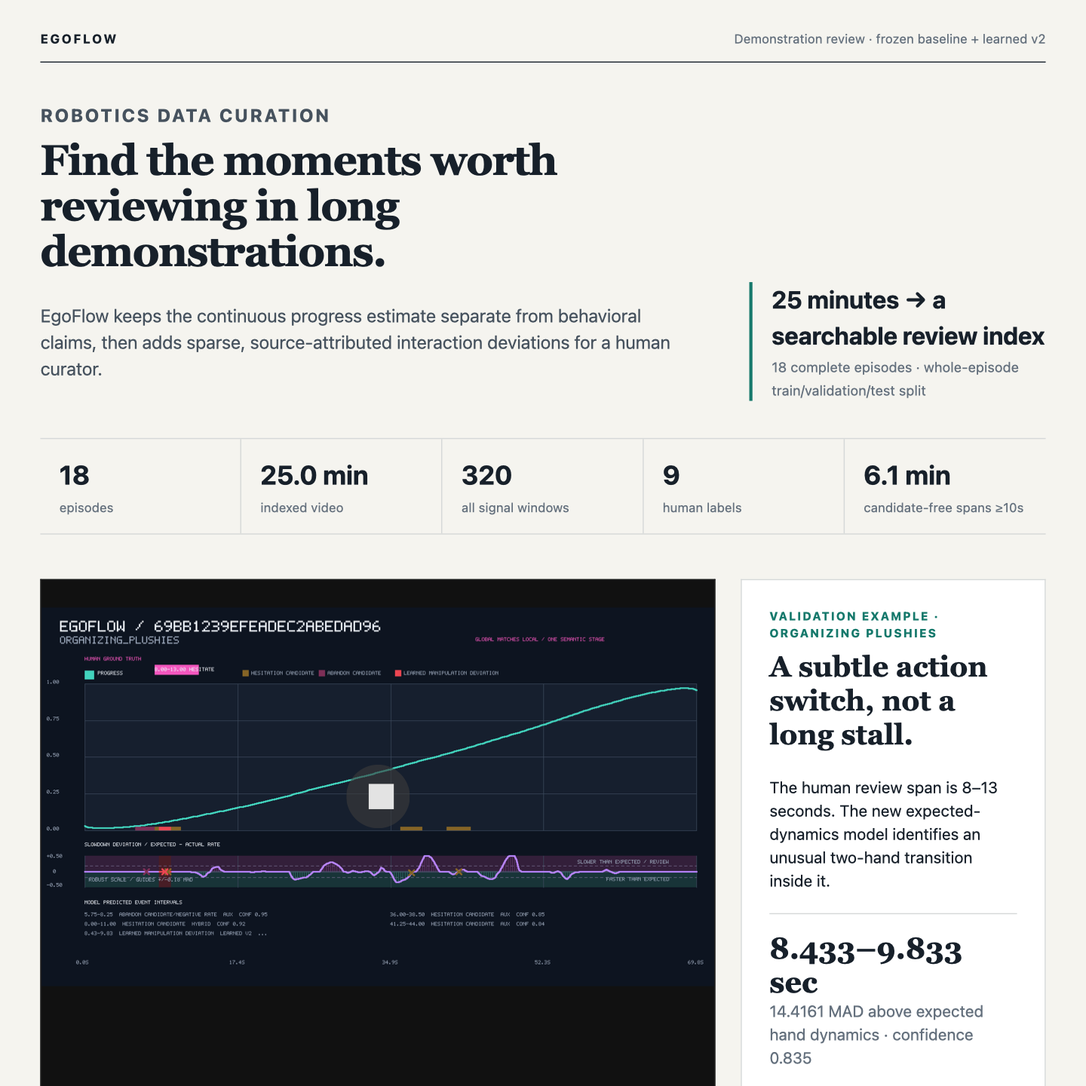
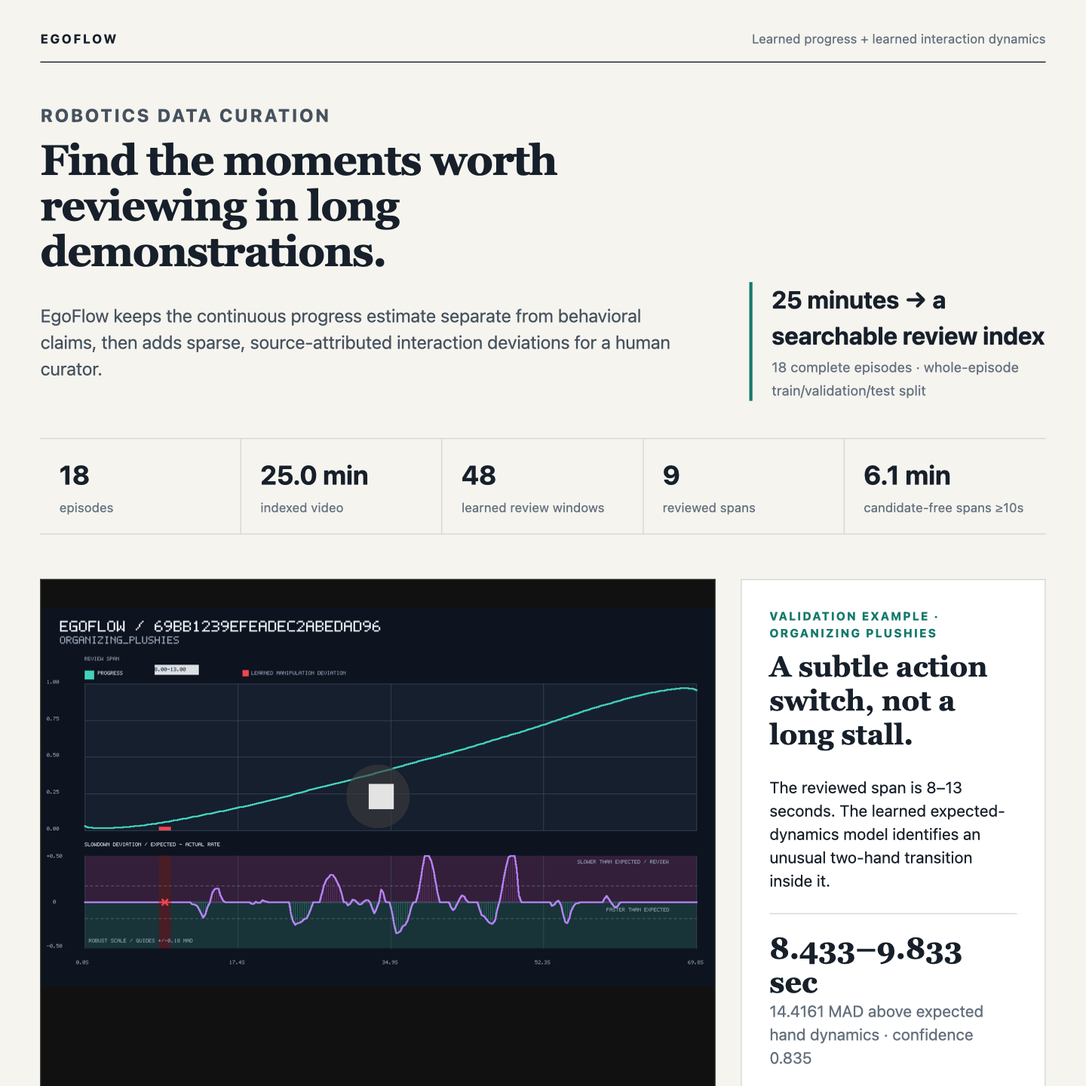
Simplify learned-signal demo and add review reel

diff --git a/hackathon/egoflow/dashboard.py b/hackathon/egoflow/dashboard.py
@@ -83,12 +83,17 @@ def render_dashboard(
         return Path(os.path.relpath(absolute.resolve(), output.parent.resolve())).as_posix()
 
     total_seconds = sum(row[2] for row in episodes)
-    event_total = sum(len(rows) for rows in events_by_episode.values())
+    event_total = sum(
+        1 for rows in events_by_episode.values() for row in rows if row[3] == "LEARNED V2"
+    )
     clean_total = sum(span[2] for rows in clean_by_episode.values() for span in rows)
     manual_total = sum(len(rows) for rows in manual_by_episode.values())
     cards: list[str] = []
     for episode_id, task, duration, completion, video_path in episodes:
-        events = events_by_episode[episode_id]
+        # The presentation surface stays intentionally narrow: learned hand-
+        # dynamics candidates only. Legacy derived/auxiliary layers remain in
+        # SQLite and result JSON for auditability, not in the live demo.
+        events = [event for event in events_by_episode[episode_id] if event[3] == "LEARNED V2"]
         manual = manual_by_episode[episode_id]
         clean = clean_by_episode[episode_id]
         local_video_href = relative_asset(video_path)
@@ -99,7 +104,8 @@ def render_dashboard(
             f'style="left:{100*start/max(duration,1e-6):.2f}%;width:{max(.45,100*(end-start)/max(duration,1e-6)):.2f}%" '
             f'title="{html.escape(label.replace("_", " "))} · {html.escape(source)} · {start:.2f}–{end:.2f}s" '
             f'tabindex="0" role="button" data-action="watch" data-video="{escaped_video}" data-start="{start:.3f}" '
-            f'data-end="{end:.3f}" data-title="{html.escape(label.replace("_", " ").title(), quote=True)} · {html.escape(episode_id, quote=True)}"></span>'
+            f'data-end="{end:.3f}" data-episode="{html.escape(episode_id, quote=True)}" data-confidence="{confidence:.4f}" '
+            f'data-title="{html.escape(label.replace("_", " ").title(), quote=True)} · {html.escape(episode_id, quote=True)}"></span>'
             for start, end, label, source, confidence, reason in events
         )
         manual_marks = "".join(
@@ -168,7 +174,7 @@ def render_dashboard(
 main {{ max-width:1240px; margin:auto; padding:28px 38px 80px }} h1,h2,h3,p {{ margin-top:0 }} h1 {{ font:600 40px/1.08 Georgia,serif; letter-spacing:-.025em; max-width:720px }} h2 {{ font:600 27px/1.2 Georgia,serif }} h3 {{ font-size:17px }} a {{ color:var(--blue); text-underline-offset:3px }} code {{ font:11px ui-monospace,SFMono-Regular,monospace; color:var(--muted) }}
 .topline {{ display:flex; justify-content:space-between; align-items:center; border-bottom:1px solid var(--ink); padding-bottom:12px; margin-bottom:38px }} .brand {{ font-weight:750; letter-spacing:.14em; font-size:12px }} .version {{ color:var(--muted); font-size:12px }} .intro {{ display:grid; grid-template-columns:1.5fr .7fr; gap:70px; margin-bottom:35px }} .intro p {{ color:#46525e; font-size:17px; max-width:700px }} .claim {{ border-left:3px solid var(--teal); padding-left:18px; align-self:end }} .claim b {{ display:block; font-size:23px }} .claim span {{ color:var(--muted); font-size:13px }}
 .stats {{ display:grid; grid-template-columns:repeat(5,1fr); border-block:1px solid var(--rule); margin-bottom:42px }} .stat {{ padding:15px 18px; border-right:1px solid var(--rule) }} .stat:last-child {{ border:0 }} .stat b {{ display:block; font-size:25px }} .stat span {{ color:var(--muted); font-size:12px }}
-.hero {{ display:grid; grid-template-columns:1.55fr .7fr; gap:24px; margin-bottom:54px }} .hero-media {{ background:#111; border:1px solid #222 }} .hero-media video,.hero-media img {{ display:block; width:100%; aspect-ratio:16/10.3; object-fit:contain }} .media-placeholder {{ min-height:460px; display:grid; place-items:center; color:#aaa }} .hero-copy {{ background:var(--white); border:1px solid var(--rule); padding:26px }} .overline {{ margin:0 0 8px; color:var(--teal); font-size:11px; font-weight:750; letter-spacing:.12em; text-transform:uppercase }} .result {{ border-block:1px solid var(--rule); padding:16px 0; margin:20px 0 }} .result b {{ display:block; font:600 28px Georgia,serif }} .result span {{ color:var(--muted) }} .legend {{ display:grid; grid-template-columns:1fr 1fr; gap:9px 14px; margin-top:22px; font-size:12px }} .key::before {{ content:""; display:inline-block; width:9px; height:9px; margin-right:7px; background:var(--gray) }} .key.learned-v2::before {{ background:var(--alert) }} .key.hybrid::before {{ background:var(--orange) }} .key.aux::before {{ background:var(--rose) }} .key.hand::before {{ background:var(--violet) }} .key.human::before {{ background:#d8247c }}
+.hero {{ display:grid; grid-template-columns:1.55fr .7fr; gap:24px; margin-bottom:54px }} .hero-media {{ background:#111; border:1px solid #222 }} .hero-media video,.hero-media img {{ display:block; width:100%; aspect-ratio:16/10.3; object-fit:contain }} .media-placeholder {{ min-height:460px; display:grid; place-items:center; color:#aaa }} .hero-copy {{ background:var(--white); border:1px solid var(--rule); padding:26px }} .overline {{ margin:0 0 8px; color:var(--teal); font-size:11px; font-weight:750; letter-spacing:.12em; text-transform:uppercase }} .result {{ border-block:1px solid var(--rule); padding:16px 0; margin:20px 0 }} .result b {{ display:block; font:600 28px Georgia,serif }} .result span {{ color:var(--muted) }} .legend {{ display:grid; grid-template-columns:1fr 1fr; gap:9px 14px; margin-top:22px; font-size:12px }} .key::before {{ content:""; display:inline-block; width:9px; height:9px; margin-right:7px; background:var(--gray) }} .key.learned-v2::before {{ background:var(--alert) }} .key.learned::before {{ background:var(--teal) }} .key.human::before {{ background:#aeb5b8 }}
 .method {{ margin:0 0 55px }} .section-intro {{ max-width:720px; color:var(--muted) }} .flow {{ display:grid; grid-template-columns:1fr 30px 1.35fr 30px 1.1fr 30px 1fr; align-items:stretch; margin-top:24px }} .flow-node {{ background:var(--white); border:1px solid var(--rule); padding:19px; min-height:128px }} .flow-node b {{ display:block; margin-bottom:8px }} .flow-node span {{ color:var(--muted); font-size:13px }} .flow-arrow {{ display:grid; place-items:center; color:var(--muted); font-size:23px }} .branch {{ display:grid; grid-template-columns:1fr 1fr; gap:8px }} .branch div {{ border-left:2px solid var(--blue); padding-left:10px }} .branch div:last-child {{ border-color:var(--teal) }}
 .reading {{ display:grid; grid-template-columns:1fr 1fr; gap:22px; margin:0 0 56px }} .reading-panel {{ background:var(--white); border:1px solid var(--rule); padding:22px }} .mini-chart {{ width:100%; height:120px }} .mini-chart .base {{ stroke:#b7bcbc; stroke-width:1 }} .mini-chart .curve {{ stroke:var(--teal); fill:none; stroke-width:3 }} .mini-chart .spike {{ stroke:var(--alert); stroke-width:4 }} .mini-label {{ display:flex; justify-content:space-between; color:var(--muted); font-size:12px }}
 .catalog-head {{ display:flex; justify-content:space-between; align-items:end; gap:20px; border-bottom:1px solid var(--ink); padding-bottom:14px }} .controls {{ display:flex; gap:10px; align-items:center; flex-wrap:wrap }} input,select,button {{ font:inherit }} input,select {{ height:38px; border:1px solid #aeb5b8; background:var(--white); border-radius:2px; color:var(--ink); padding:0 10px }} input {{ width:240px }} label {{ color:var(--muted); font-size:12px }} button {{ border:1px solid #aeb5b8; background:var(--white); color:var(--ink); padding:8px 11px; cursor:pointer }} button:hover {{ border-color:var(--ink) }} button:focus-visible,[role=button]:focus-visible {{ outline:3px solid #91b8dc; outline-offset:2px }} .demo-toggle.active {{ background:var(--ink); border-color:var(--ink); color:white }} .clear-shortlist {{ color:var(--muted) }} .layer-note {{ min-height:24px; margin:10px 0 10px; color:var(--muted); font-size:12px }}
@@ -181,26 +187,29 @@ main {{ max-width:1240px; margin:auto; padding:28px 38px 80px }} h1,h2,h3,p {{ m
 .event-mark.learned-v2 {{ background:var(--alert)!important }}
 @media(max-width:900px) {{ main {{ padding:20px }} .intro,.hero,.reading,.notes {{ grid-template-columns:1fr }} .stats {{ grid-template-columns:1fr 1fr }} .stat {{ border-bottom:1px solid var(--rule) }} .flow {{ grid-template-columns:1fr }} .flow-arrow {{ transform:rotate(90deg); min-height:28px }} .episodes {{ grid-template-columns:1fr }} .catalog-head {{ align-items:start; flex-direction:column }} .controls {{ flex-wrap:wrap }} .episode-actions {{ flex-direction:column-reverse; align-items:flex-end }} }}
 </style></head><body><main>
-<div class="topline"><span class="brand">EGOFLOW</span><span class="version">Demonstration review · frozen baseline + learned v2</span></div>
+<div class="topline"><span class="brand">EGOFLOW</span><span class="version">Learned progress + learned interaction dynamics</span></div>
 <section class="intro"><div><p class="overline">Robotics data curation</p><h1>Find the moments worth reviewing in long demonstrations.</h1><p>EgoFlow keeps the continuous progress estimate separate from behavioral claims, then adds sparse, source-attributed interaction deviations for a human curator.</p></div><div class="claim"><b>25 minutes → a searchable review index</b><span>18 complete episodes · whole-episode train/validation/test split</span></div></section>
-<section class="stats"><div class="stat"><b>{len(episodes)}</b><span>episodes</span></div><div class="stat"><b>{total_seconds/60:.1f} min</b><span>indexed video</span></div><div class="stat"><b>{event_total}</b><span>all signal windows</span></div><div class="stat"><b>{manual_total}</b><span>human labels</span></div><div class="stat"><b>{clean_total/60:.1f} min</b><span>candidate-free spans ≥10s</span></div></section>
-<section class="hero"><div class="hero-media">{hero_media}</div><aside class="hero-copy"><p class="overline">Validation example · organizing plushies</p><h2>A subtle action switch, not a long stall.</h2><p>The human review span is 8–13 seconds. The new expected-dynamics model identifies an unusual two-hand transition inside it.</p><div class="result"><b>{learned_event.get('start_sec','—')}–{learned_event.get('end_sec','—')} sec</b><span>{learned_event.get('surprise_mad','—')} MAD above expected hand dynamics · confidence {learned_event.get('confidence','—')}</span></div><p>The earlier geometric baseline lands at {hand_event.get('start_sec','—')}–{hand_event.get('end_sec','—')} seconds. Neither signal claims to read intent or identify the target object.</p><div class="legend"><span class="key learned-v2">Learned v2</span><span class="key hybrid">Hybrid progress + visual</span><span class="key aux">Auxiliary visual</span><span class="key hand">Hand geometry</span><span class="key human">Human label</span></div></aside></section>
+<section class="stats"><div class="stat"><b>{len(episodes)}</b><span>episodes</span></div><div class="stat"><b>{total_seconds/60:.1f} min</b><span>indexed video</span></div><div class="stat"><b>{event_total}</b><span>learned review windows</span></div><div class="stat"><b>{manual_total}</b><span>reviewed spans</span></div><div class="stat"><b>{clean_total/60:.1f} min</b><span>candidate-free spans ≥10s</span></div></section>
+<section class="hero"><div class="hero-media">{hero_media}</div><aside class="hero-copy"><p class="overline">Validation example · organizing plushies</p><h2>A subtle action switch, not a long stall.</h2><p>The reviewed span is 8–13 seconds. The learned expected-dynamics model identifies an unusual two-hand transition inside it.</p><div class="result"><b>{learned_event.get('start_sec','—')}–{learned_event.get('end_sec','—')} sec</b><span>{learned_event.get('surprise_mad','—')} MAD above expected hand dynamics · confidence {learned_event.get('confidence','—')}</span></div><p>The signal measures an unexpected interaction transition; the final semantic judgment stays with the reviewer.</p><div class="legend"><span class="key learned-v2">Learned interaction</span><span class="key learned">Learned progress</span><span class="key human">Reviewed span</span></div></aside></section>
 <section class="method"><p class="overline">System, briefly</p><h2>Two learned signals; one review queue.</h2><p class="section-intro">The coarse model answers “how far through the demonstration are we?” The short-horizon model asks “does this hand transition look unlike the manipulation dynamics learned from training episodes?”</p><div class="flow"><div class="flow-node"><b>1 · Public RGB video</b><span>Frames only. Dense semantic annotations are used when available, but were absent in this public run.</span></div><div class="flow-arrow">→</div><div class="flow-node branch"><div><b>Frozen DINO features</b><span>2-layer BiGRU learns coarse progress.</span></div><div><b>2D hand landmarks</b><span>Small GRU learns expected next-hand state.</span></div></div><div class="flow-arrow">→</div><div class="flow-node"><b>2 · Source-attributed signals</b><span>Progress, centered slowdown deviation, learned interaction surprise, and disclosed auxiliary evidence.</span></div><div class="flow-arrow">→</div><div class="flow-node"><b>3 · Curate</b><span>Review suspicious windows or export candidate-free segments longer than ten seconds.</span></div></div></section>
 <section class="reading"><div class="reading-panel"><p class="overline">Graph 1</p><h3>Learned task progress</h3><svg class="mini-chart" viewBox="0 0 420 120"><line x1="12" y1="104" x2="408" y2="104" class="base"/><path d="M12 102 C80 101 105 89 160 74 S245 48 300 29 S365 15 408 10" class="curve"/></svg><div class="mini-label"><span>start · 0%</span><span>later visual states score higher</span><span>end · 100%</span></div><p class="muted">This is the learned continuous output. It is not a “productive versus stalled” classifier.</p></div><div class="reading-panel"><p class="overline">Graph 2</p><h3>Slowdown deviation</h3><svg class="mini-chart" viewBox="0 0 420 120"><line x1="12" y1="65" x2="408" y2="65" class="base"/><path d="M12 65 L90 63 L120 66 L150 64 L185 26 L205 64 L260 67 L300 44 L320 65 L408 64" class="curve"/><line x1="185" y1="65" x2="185" y2="26" class="spike"/></svg><div class="mini-label"><span>faster than expected ↓</span><span>expected = 0</span><span>slower / review ↑</span></div><p class="muted">The sign is intentionally flipped for presentation: upward means expected rate minus actual rate, so suspicious slowdowns read as peaks.</p></div></section>
-<section><div class="catalog-head"><div><p class="overline">Episode database</p><h2>Inspect the evidence without crowding the graph.</h2></div><div class="controls"><input id="search" data-testid="episode-search" aria-label="Search episodes" placeholder="Search task or episode ID"><label for="layer">Show evidence</label><select id="layer" data-testid="evidence-filter"><option value="core">Core review signals</option><option value="learned-v2">Learned v2 only</option><option value="hybrid">Hybrid only</option><option value="aux">Auxiliary only</option><option value="hand">Hand geometry only</option><option value="human">Human labels only</option><option value="all">All evidence</option></select><button id="shortlist-toggle" class="demo-toggle" data-testid="shortlist-toggle" aria-pressed="false">Demo reel · <span id="shortlist-count">0</span></button><button id="shortlist-clear" class="clear-shortlist">Clear</button></div></div><p class="layer-note" id="layer-note">Core view: learned-v2, hybrid, and human windows. Auxiliary and geometric prototypes are available from the menu.</p><div class="demo-rail" id="demo-rail"><span class="demo-rail-label">Your demo reel</span><span class="demo-empty">Add the strongest episodes; this shortlist stays saved in your browser.</span></div><div class="episodes" id="episodes">{''.join(cards)}</div></section>
+<section><div class="catalog-head"><div><p class="overline">Episode database</p><h2>Inspect the evidence without crowding the graph.</h2></div><div class="controls"><button id="review-next" data-testid="review-next">Review strongest →</button><input id="search" data-testid="episode-search" aria-label="Search episodes" placeholder="Search task or episode ID"><label for="layer">Show evidence</label><select id="layer" data-testid="evidence-filter"><option value="demo">Learned + reviewed</option><option value="learned-v2">Learned only</option><option value="human">Reviewed spans only</option></select><button id="shortlist-toggle" class="demo-toggle" data-testid="shortlist-toggle" aria-pressed="false">Demo reel · <span id="shortlist-count">0</span></button><button id="shortlist-clear" class="clear-shortlist">Clear</button></div></div><p class="layer-note" id="layer-note">Learned interaction candidates and reviewed spans. Click a timeline mark, or use “Review strongest” to step through the highest-confidence candidates.</p><div class="demo-rail" id="demo-rail"><span class="demo-rail-label">Your demo reel</span><span class="demo-empty">Add the strongest episodes; this shortlist stays saved in your browser.</span></div><div class="episodes" id="episodes">{''.join(cards)}</div></section>
 <section class="notes"><div><p class="overline">Claim boundary</p><h2>Deliberately narrow.</h2><p>Learned v2 detects interaction surprise from 2D hand dynamics. It does not identify object A versus B, prove hesitation, or convert every slowdown into a behavioral label. All frozen baseline, derived, auxiliary, experimental, and human sources remain separately queryable.</p></div><div><details><summary>Frozen evaluation record</summary><pre>{metric_summary}</pre></details></div></section>
-</main><dialog id="viewer" class="viewer"><div class="viewer-head"><div><strong id="viewer-title">Episode</strong><p id="viewer-meta">Starting at 0 seconds</p></div><button id="viewer-close" class="viewer-close" aria-label="Close video">Close</button></div><video id="viewer-video" controls playsinline preload="metadata"></video></dialog><script>
+</main><dialog id="viewer" class="viewer"><div class="viewer-head"><div><strong id="viewer-title">Episode</strong><p id="viewer-meta">Starting at 0 seconds</p></div><div><button id="viewer-keep">Keep in demo</button><button id="viewer-next">Next candidate</button><button id="viewer-close" class="viewer-close" aria-label="Close video">Close</button></div></div><video id="viewer-video" controls playsinline preload="metadata"></video></dialog><script>
 const cards=[...document.querySelectorAll('.episode')], search=document.querySelector('#search'), layer=document.querySelector('#layer'), note=document.querySelector('#layer-note');
 const shortlistToggle=document.querySelector('#shortlist-toggle'), shortlistClear=document.querySelector('#shortlist-clear'), shortlistCount=document.querySelector('#shortlist-count'), demoRail=document.querySelector('#demo-rail');
 const viewer=document.querySelector('#viewer'), viewerVideo=document.querySelector('#viewer-video'), viewerTitle=document.querySelector('#viewer-title'), viewerMeta=document.querySelector('#viewer-meta');
-const storageKey='egoflow-demo-shortlist-v1'; let shortlist=new Set(JSON.parse(localStorage.getItem(storageKey)||'[]')), shortlistOnly=false, stopAt=null;
-const notes={{core:'Core view: learned-v2, hybrid, and human windows. Auxiliary and geometric prototypes are available from the menu.','learned-v2':'Only self-supervised hand-dynamics deviations are shown.',hybrid:'Only events combining learned progress and frozen visual evidence are shown.',aux:'Only the disclosed frozen-visual heuristic layer is shown.',hand:'Only the geometric hand-redirection prototype is shown.',human:'Only manually labeled intervals are shown.',all:'All stored evidence layers are visible.'}};
+const storageKey='egoflow-demo-shortlist-v1'; let shortlist=new Set(JSON.parse(localStorage.getItem(storageKey)||'[]')), shortlistOnly=false, stopAt=null, currentEpisode=null, reviewCursor=-1;
+const notes={{demo:'Learned interaction candidates and reviewed spans.','learned-v2':'Only self-supervised hand-dynamics candidates are shown.',human:'Only reviewed spans are shown.'}};
 function renderShortlist(){{shortlistCount.textContent=shortlist.size; cards.forEach(card=>{{const selected=shortlist.has(card.dataset.id), button=card.querySelector('.shortlist'); card.classList.toggle('shortlisted',selected); button.setAttribute('aria-pressed',selected); button.textContent=selected?'✓ In demo reel':'＋ Add to demo'}}); const selected=cards.filter(card=>shortlist.has(card.dataset.id)); demoRail.innerHTML='<span class="demo-rail-label">Your demo reel</span>'+(selected.length?selected.map(card=>`<button class="demo-chip" data-jump="${{card.dataset.id}}">${{card.dataset.task}} · ${{card.dataset.id.slice(0,6)}}</button>`).join(''):'<span class="demo-empty">Add the strongest episodes; this shortlist stays saved in your browser.</span>'); localStorage.setItem(storageKey,JSON.stringify([...shortlist])); apply()}}
-function apply(){{const query=search.value.toLowerCase(), selected=layer.value; cards.forEach(card=>card.hidden=!card.dataset.search.includes(query)||(shortlistOnly&&!shortlist.has(card.dataset.id))); document.querySelectorAll('[data-source]').forEach(mark=>{{const source=mark.dataset.source; mark.hidden=selected==='core'?!['learned-v2','hybrid','human','learned'].includes(source):selected!=='all'&&source!==selected}}); note.textContent=notes[selected]}}
-function openViewer(button){{const start=Number(button.dataset.start||0), end=Number(button.dataset.end||0); stopAt=end>start?end:null; viewerTitle.textContent=button.dataset.title||'Episode'; viewerMeta.textContent=stopAt?`Review window · ${{start.toFixed(2)}}–${{end.toFixed(2)}} seconds`:`Full episode · starting at ${{start.toFixed(2)}} seconds`; viewerVideo.src=button.dataset.video; viewerVideo.addEventListener('loadedmetadata',()=>{{viewerVideo.currentTime=Math.min(start,Math.max(0,viewerVideo.duration-.05)); viewerVideo.play().catch(()=>{{}})}},{{once:true}}); viewer.showModal()}}
+function apply(){{const query=search.value.toLowerCase(), selected=layer.value; cards.forEach(card=>card.hidden=!card.dataset.search.includes(query)||(shortlistOnly&&!shortlist.has(card.dataset.id))); document.querySelectorAll('[data-source]').forEach(mark=>{{const source=mark.dataset.source; mark.hidden=selected==='demo'?!['learned-v2','human'].includes(source):source!==selected}}); note.textContent=notes[selected]}}
+function rankedCandidates(){{return [...document.querySelectorAll('.event-mark.learned-v2,.event-mark.hybrid')].sort((a,b)=>Number(b.dataset.confidence||0)-Number(a.dataset.confidence||0))}}
+function openViewer(button){{const start=Number(button.dataset.start||0), end=Number(button.dataset.end||0); stopAt=end>start?end:null; currentEpisode=button.dataset.episode||button.closest('.episode')?.dataset.id||null; viewerTitle.textContent=button.dataset.title||'Episode'; viewerMeta.textContent=stopAt?`Review window · ${{start.toFixed(2)}}–${{end.toFixed(2)}} seconds`:`Full episode · starting at ${{start.toFixed(2)}} seconds`; viewerVideo.src=button.dataset.video; viewerVideo.addEventListener('loadedmetadata',()=>{{viewerVideo.currentTime=Math.min(start,Math.max(0,viewerVideo.duration-.05)); viewerVideo.play().catch(()=>{{}})}},{{once:true}}); if(!viewer.open)viewer.showModal()}}
+function reviewNext(){{const candidates=rankedCandidates(); if(!candidates.length)return; reviewCursor=(reviewCursor+1)%candidates.length; openViewer(candidates[reviewCursor])}}
 document.addEventListener('click',event=>{{const action=event.target.closest('[data-action]'); if(action?.dataset.action==='shortlist'){{const id=action.closest('.episode').dataset.id; shortlist.has(id)?shortlist.delete(id):shortlist.add(id); renderShortlist()}} else if(action?.dataset.action==='watch') openViewer(action); const jump=event.target.closest('[data-jump]'); if(jump){{shortlistOnly=false; shortlistToggle.classList.remove('active'); shortlistToggle.setAttribute('aria-pressed','false'); apply(); const card=cards.find(item=>item.dataset.id===jump.dataset.jump); card?.scrollIntoView({{behavior:'smooth',block:'center'}})}}}});
 document.addEventListener('keydown',event=>{{if((event.key==='Enter'||event.key===' ')&&event.target.matches('[role=button][data-action=watch]')){{event.preventDefault(); openViewer(event.target)}}}});
 viewerVideo.addEventListener('timeupdate',()=>{{if(stopAt&&viewerVideo.currentTime>=stopAt){{viewerVideo.pause(); stopAt=null}}}}); document.querySelector('#viewer-close').addEventListener('click',()=>viewer.close()); viewer.addEventListener('close',()=>{{viewerVideo.pause(); viewerVideo.removeAttribute('src'); viewerVideo.load(); stopAt=null}}); viewer.addEventListener('click',event=>{{if(event.target===viewer)viewer.close()}});
+document.querySelector('#review-next').addEventListener('click',reviewNext); document.querySelector('#viewer-next').addEventListener('click',reviewNext); document.querySelector('#viewer-keep').addEventListener('click',()=>{{if(currentEpisode){{shortlist.add(currentEpisode); renderShortlist()}} reviewNext()}});
 shortlistToggle.addEventListener('click',()=>{{shortlistOnly=!shortlistOnly; shortlistToggle.classList.toggle('active',shortlistOnly); shortlistToggle.setAttribute('aria-pressed',String(shortlistOnly)); apply()}}); shortlistClear.addEventListener('click',()=>{{shortlist.clear(); shortlistOnly=false; shortlistToggle.classList.remove('active'); shortlistToggle.setAttribute('aria-pressed','false'); renderShortlist()}});
 search.addEventListener('input',apply); layer.addEventListener('change',apply); renderShortlist();
 </script></body></html>""", encoding="utf-8")

diff --git a/hackathon/egoflow/visualize.py b/hackathon/egoflow/visualize.py
@@ -323,14 +323,6 @@ def _timeline_canvas(
         abs(local - global_value)
         for local, global_value in zip(series.local_progress, series.global_progress)
     ) < 1e-9
-    if same_progress_curve:
-        canvas.text(
-            max(470, width - 455),
-            57,
-            "GLOBAL MATCHES LOCAL / ONE SEMANTIC STAGE",
-            COLORS["human_gt"],
-            1,
-        )
     if series.synthetic:
         canvas.rect(width - 260, 20, width - 35, 57, (107, 61, 31))
         canvas.text(width - 247, 31, "SYNTHETIC DEMO", (255, 220, 164), 2)
@@ -345,26 +337,25 @@ def _timeline_canvas(
 
     if manual_events and not compact:
         band_top, band_bottom = top - 36, top - 17
-        canvas.text(left, band_top - 15, "HUMAN GROUND TRUTH", COLORS["human_gt"], 1)
+        canvas.text(left, band_top - 15, "REVIEW SPAN", COLORS["muted"], 1)
         for event in manual_events:
             start = float(event.get("start_sec", 0.0))
             end = float(event.get("end_sec", start))
-            canvas.rect(x_for(start), band_top, max(x_for(start) + 2, x_for(end)), band_bottom, COLORS["human_gt"])
-            label = str(event.get("label", "event"))
+            canvas.rect(x_for(start), band_top, max(x_for(start) + 2, x_for(end)), band_bottom, (220, 224, 228))
             canvas.text(
                 max(left, x_for(start)),
                 band_top + 5,
-                f"{start:.2f}-{end:.2f} {label}",
-                COLORS["text"],
+                f"{start:.2f}-{end:.2f}",
+                COLORS["panel"],
                 1,
             )
     elif manual_events and compact:
-        # A dedicated magenta strip keeps human labels visually separate from
-        # model event colors in the animated demo.
+        # Keep reviewed spans visible without adding another textual claim to
+        # the already compact video overlay. Provenance remains in the JSON.
         for event in manual_events:
             start = float(event.get("start_sec", 0.0))
             end = float(event.get("end_sec", start))
-            canvas.rect(x_for(start), top, max(x_for(start) + 2, x_for(end)), top + 9, COLORS["human_gt"])
+            canvas.rect(x_for(start), top, max(x_for(start) + 2, x_for(end)), top + 6, (220, 224, 228))
 
     displayed_runs = (
         _top_event_runs(series, max_display_events)
@@ -385,12 +376,14 @@ def _timeline_canvas(
     for fraction in (0.0, 0.25, 0.5, 0.75, 1.0):
         y = progress_bottom - round((progress_bottom - top) * fraction)
         canvas.line(left, y, right, y, COLORS["grid"])
-        canvas.text(10, y - 7, f"{fraction:.2f}", COLORS["muted"], 1)
+        if not compact or fraction in (0.0, 1.0):
+            canvas.text(10, y - 7, f"{fraction:.0%}" if compact else f"{fraction:.2f}", COLORS["muted"], 1)
     for fraction in (0.0, 0.25, 0.5, 0.75, 1.0):
         x = left + round((right - left) * fraction)
         canvas.line(x, top, x, progress_bottom, COLORS["grid"])
         canvas.line(x, velocity_top, x, velocity_bottom, COLORS["grid"])
-        canvas.text(max(0, x - 16), height - 49, f"{duration * fraction:.1f}s", COLORS["muted"], 1)
+        if not compact or fraction in (0.0, 0.5, 1.0):
+            canvas.text(max(0, x - 16), height - 49, f"{duration * fraction:.1f}s", COLORS["muted"], 1)
 
     def plot(values: list[float], color: tuple[int, int, int], lo: float, hi: float, y0: int, y1: int, width_px: int = 3) -> None:
         if len(values) < 2:
@@ -428,7 +421,7 @@ def _timeline_canvas(
         )
         for x in range(left, right, 10):
             canvas.line(x, guide_y, min(x + 5, right), guide_y, COLORS["guide"])
-    if residual:
+    if residual and not compact:
         for timestamp, value in zip(series.timestamps_sec, residual):
             y = velocity_bottom - round(
                 (velocity_bottom - velocity_top) * ((max(-vmax, min(vmax, value)) + vmax) / (2.0 * vmax))
@@ -449,9 +442,10 @@ def _timeline_canvas(
                 points.append((x_for(timestamp), y))
         for one, two in zip(points, points[1:]):
             canvas.line(*one, *two, COLORS["interaction_deviation"], 3)
-    canvas.text(10, velocity_top - 3, f"+{vmax:.2f}", COLORS["muted"], 1)
-    canvas.text(22, zero_y - 4, "0", COLORS["muted"], 1)
-    canvas.text(10, velocity_bottom - 8, f"-{vmax:.2f}", COLORS["muted"], 1)
+    if not compact:
+        canvas.text(10, velocity_top - 3, f"+{vmax:.2f}", COLORS["muted"], 1)
+        canvas.text(22, zero_y - 4, "0", COLORS["muted"], 1)
+        canvas.text(10, velocity_bottom - 8, f"-{vmax:.2f}", COLORS["muted"], 1)
 
     for start, end, label in displayed_runs:
         marker_t = (start + end) / 2.0
@@ -477,9 +471,9 @@ def _timeline_canvas(
         canvas.rect(left + 95, top - 25, left + 113, top - 8, COLORS["local"])
         canvas.text(left + 120, top - 24, "LOCAL", COLORS["text"], 1)
         legend_offset = 180
-    canvas.text(left, velocity_top - 25, "SLOWDOWN DEVIATION / EXPECTED - ACTUAL RATE", COLORS["text"], 1)
-    canvas.text(right - 226, velocity_top + 8, "SLOWER THAN EXPECTED / REVIEW", COLORS["muted"], 1)
-    canvas.text(right - 171, zero_y + 11, "FASTER THAN EXPECTED", COLORS["muted"], 1)
+    canvas.text(left, velocity_top - 25, "SLOWDOWN SIGNAL" if compact else "SLOWDOWN DEVIATION / EXPECTED - ACTUAL RATE", COLORS["text"], 1)
+    canvas.text(right - (76 if compact else 226), velocity_top + 8, "SLOWER" if compact else "SLOWER THAN EXPECTED / REVIEW", COLORS["muted"], 1)
+    canvas.text(right - (76 if compact else 171), zero_y + 11, "FASTER" if compact else "FASTER THAN EXPECTED", COLORS["muted"], 1)
     if not compact:
         canvas.text(left + 8, velocity_bottom - 18, f"ROBUST SCALE / GUIDES +/-{residual_guide:.2f} MAD", COLORS["muted"], 1)
 
@@ -487,11 +481,12 @@ def _timeline_canvas(
     shown_labels = {label for _, _, label in displayed_runs}
     shown = [label for label in EVENT_LABELS if label in shown_labels and label != "other"]
     shown.extend(label for label in sorted(shown_labels) if label not in shown and label != "other")
-    for index, label in enumerate(shown[:7]):
-        x = legend_x + (index % 4) * 145
-        y = top - 26 + (index // 4) * 19
-        canvas.rect(x, y, x + 12, y + 12, COLORS[label])
-        canvas.text(x + 17, y + 2, DISPLAY_LABELS.get(label, label), COLORS["muted"], 1)
+    if not compact:
+        for index, label in enumerate(shown[:7]):
+            x = legend_x + (index % 4) * 145
+            y = top - 26 + (index // 4) * 19
+            canvas.rect(x, y, x + 12, y + 12, COLORS[label])
+            canvas.text(x + 17, y + 2, DISPLAY_LABELS.get(label, label), COLORS["muted"], 1)
     if series.synthetic and not compact:
         canvas.text(left, height - 24, "SYNTHETIC SMOKE TEST - NOT A MODEL RESULT OR EMPIRICAL CLAIM", (255, 190, 107), 1)
     if show_event_intervals and not compact:
@@ -626,7 +621,7 @@ def render_scored_mp4(
         return None
     fps = max(1.0, min(30.0, fps))
     frame_count = max(1, math.ceil(series.duration_sec * fps))
-    highlighted_runs = _top_event_runs(series, 5)
+    highlighted_runs = _top_event_runs(series, 1)
     highlighted_keys = {
         (round(start, 3), round(end, 3), label)
         for start, end, label in highlighted_runs
@@ -638,15 +633,10 @@ def render_scored_mp4(
         height=300,
         compact=True,
         manual_events=manual_events,
-        max_display_events=5,
+        max_display_events=1,
     )
     left, right = 82, 925
     top, bottom = 86, 285
-    raw_rate_residual, _, _, _ = progress_rate_residual(
-        series.timestamps_sec,
-        series.progress_velocity,
-    )
-    slowdown_deviation = [-value for value in raw_rate_residual]
     with tempfile.TemporaryDirectory(prefix="egoflow_overlay_") as temp_dir:
         temp = Path(temp_dir)
         for frame_index in range(frame_count):
@@ -702,12 +692,14 @@ def render_scored_mp4(
             if active_event:
                 raw_label = str(active_event.get("label", "review"))
                 status_label = (
-                    "NEGATIVE RATE" if raw_label == "regress" else f"{raw_label.upper()}?"
+                    "REVIEW CANDIDATE"
+                    if raw_label == "interaction_deviation"
+                    else "NEGATIVE RATE"
+                    if raw_label == "regress"
+                    else f"{raw_label.replace('_', ' ').upper()}?"
                 )
             else:
-                state_index = int(state["index"])
-                current_deviation = slowdown_deviation[state_index] if slowdown_deviation else 0.0
-                status_label = f"DEVIATION {current_deviation:+.2f}"
+                status_label = "MONITORING"
             status_color = (
                 COLORS.get(str(active_event.get("label")), COLORS["other"])
                 if active_event
@@ -718,12 +710,12 @@ def render_scored_mp4(
             detail = (
                 f"{source} / CONF {float(active_event.get('confidence', 0.0)):.2f}"
                 if active_event
-                else "+ SLOWER / 0 EXPECTED / - FASTER"
+                else "LEARNED PROGRESS + INTERACTION CHECK"
             )
             frame.text(514, 51, detail, COLORS["text"], 1, 45)
             if in_human:
-                frame.rect(500, 61, 925, 80, COLORS["human_gt"])
-                frame.text(514, 65, f"HUMAN GT / {in_human.get('label', 'event')}", COLORS["text"], 1, 45)
+                frame.rect(500, 61, 925, 80, (69, 76, 84))
+                frame.text(514, 65, "REVIEW SPAN", COLORS["text"], 1, 45)
             frame.write_png(temp / f"frame_{frame_index:06d}.png")
         output_path.parent.mkdir(parents=True, exist_ok=True)
         command = [

diff --git a/hackathon/egoflow/tests/test_review_database.py b/hackathon/egoflow/tests/test_review_database.py
@@ -48,7 +48,7 @@ def test_build_review_database_indexes_sources_and_clean_spans(tmp_path):
     contents = dashboard.read_text()
     assert "Episode database" in contents
     assert "episode-card" in contents
-    assert "HYBRID" in contents
+    assert "HYBRID" not in contents
     assert 'data-testid="shortlist-toggle"' in contents
     assert 'data-action="watch"' in contents
     assert '<dialog id="viewer"' in contents

diff --git a/README.md b/README.md
@@ -179,10 +179,11 @@ caches and checkpoints are intentionally excluded from Git.
 ## Manual Evaluation
 
 For presentation, generate the searchable SQLite-backed catalog. It keeps all
-18 episode progress curves, source-attributed baseline and learned-v2 events,
-human labels, video links, and exportable candidate-free spans of at least ten
-seconds. Detailed tables stay collapsed until requested; buttons filter the
-simple episode cards by evidence layer.
+18 episode progress curves, learned-v2 interaction events, reviewed spans,
+video links, and exportable candidate-free spans of at least ten seconds. The
+demo surface intentionally hides legacy hybrid/auxiliary layers; their provenance
+remains in the archived evaluation JSON. “Review strongest” steps through ranked
+candidates, and “Keep in demo” saves a browser-local presentation shortlist.
 
 ```bash
 uv run python -m hackathon.egoflow.scripts.build_review_database \
